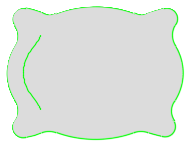
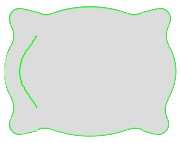
미리보기 이미지 클릭 시 _cut 버전으로 변경하도록 코드 수정

Changed region(s): [[0.0, 0.028, 1.0, 0.979], [0.0833, 0.2238, 0.2222, 0.7552]]

diff --git a/public/preview.js b/public/preview.js
@@ -390,10 +390,13 @@ document.addEventListener("DOMContentLoaded", async () => {
             previewContainer.innerHTML = "";
             previewContainer.style.position = "relative";
     
+            // _cut 버전을 지원하는 번호 배열
+            const allowedCutIndices = [1, 2, 3, 4, 5, 7, 8, 9, 11];
+
             const totalPreviews = 11;
             const randomIndex = Math.floor(Math.random() * totalPreviews) + 1;
+
             const selectedImage = `images/preview-gunff_${randomIndex}.png`;
-        
             localStorage.setItem("selectedImage", selectedImage);
         
             const img = document.createElement("img");
@@ -404,11 +407,20 @@ document.addEventListener("DOMContentLoaded", async () => {
             img.style.left = "0px";  // 초기 좌표 설정
             img.style.top = "0px";   // 초기 좌표 설정
 
+            // 클릭 시 _cut 버전으로 변경 (단, allowedCutIndices에 포함된 번호일 경우에만)
+            img.addEventListener("click", () => {
+                if (allowedCutIndices.includes(randomIndex)) {
+                    const cutImage = `images/preview-gunff_${randomIndex}_cut.png`;
+                    img.src = cutImage;
+                    localStorage.setItem("selectedImage", cutImage);
+                } else {
+                    console.warn(`No _cut version for index ${randomIndex}`);
+                }
+            });
         
             let isDragging = false; 
             let offsetX = 0; 
             let offsetY = 0;
-
             let animationFrameId = null;
 
             function startOverlapCheckLoop(img) {
@@ -435,7 +447,6 @@ document.addEventListener("DOMContentLoaded", async () => {
                 offsetY = e.clientY - rect.top;
                 img.style.cursor = "grabbing";
                 e.preventDefault();
-
                 startOverlapCheckLoop(img); // 👈 겹침 감지 루프 시작
             });
         
@@ -446,7 +457,6 @@ document.addEventListener("DOMContentLoaded", async () => {
                 let top = e.clientY - containerRect.top - offsetY;
                 img.style.left = left + "px";
                 img.style.top = top + "px";
-
                 checkOverlap(img); // 👈 실시간 감지용 강제 호출 추가!
             });
         
@@ -463,8 +473,6 @@ document.addEventListener("DOMContentLoaded", async () => {
             };
         
             previewContainer.appendChild(img);
-
-            // ✅ 변수 선언 후 호출하도록 아래로 이동
             checkOverlap(img);
         }
 

diff --git a/public/index.html b/public/index.html
@@ -202,6 +202,56 @@
             transform: scale(1);
         }
     }
+    @media (max-width: 768px) {
+  /* body 여백이나 크기 조정 (필요에 따라) */
+  body {
+    padding: 10px;
+  }
+
+  /* 컨테이너의 너비와 높이를 모바일에 맞게 조정 */
+  .container {
+    width: 100%;
+    padding: 10px;
+    margin: 0 auto;
+  }
+
+  /* 제목의 크기를 줄임 */
+  h1 {
+    font-size: 28px;
+    margin-bottom: 10px;
+  }
+
+  /* 버튼 컨테이너의 너비 조정 및 내부 여백 감소 */
+  .button_container {
+    width: 90%;  /* 전체 너비의 90%로 설정 */
+    height: auto; /* 고정 높이 대신 내용에 따라 높이 자동 조정 */
+    padding: 15px;
+    gap: 10px;
+    border: 3px solid #0066cc;
+  }
+
+  /* 버튼의 크기를 줄임 */
+  button {
+    width: 150px;
+    padding: 10px;
+    font-size: 14px;
+  }
+
+  /* 캔버스가 화면을 꽉 채우는 대신 모바일에 맞게 조정 */
+  canvas {
+    /* 모바일에서는 절대 위치가 아닌 상대적인 너비/높이 적용 */
+    width: 100%;
+    height: auto;
+  }
+
+  /* 추가적으로 필요한 경우 다른 요소들에도 미디어 쿼리로 조정 */
+  /* 예시: glow-circle의 크기 감소 */
+  .glow-circle {
+    width: 40px;
+    height: 40px;
+    filter: blur(8px);
+  }
+}
     </style>    
 </head>
 <body>

diff --git a/src/config/databaseConfig.js b/src/config/databaseConfig.js
@@ -5,13 +5,10 @@ dotenv.config(); // .env 파일에서 환경 변수 로드
 
 
 // ✅ PlanetScale URL 기반 Sequelize 인스턴스 생성
-const sequelize = new Sequelize(process.env.DB_URL, {
+const sequelize = new Sequelize(process.env.DB_NAME, process.env.DB_USER, process.env.DB_PASSWORD, {
+  host: process.env.DB_HOST,
+  port: process.env.DB_PORT || 3306,
   dialect: "mysql",
-  dialectOptions: {
-    ssl: {
-      rejectUnauthorized: true // PlanetScale은 SSL 필수
-    }
-  },
   logging: process.env.DB_LOGGING === "true" ? console.log : false,
   define: {
     freezeTableName: true,
@@ -29,12 +26,12 @@ const sequelize = new Sequelize(process.env.DB_URL, {
 async function testDBConnection() {
   try {
     await sequelize.authenticate();
-    console.log("✅ PlanetScale 연결 성공!");
+    console.log("✅ IONOS MySQL 연결 성공!");
 
     await sequelize.sync({ alter: false });
     console.log("✅ 모델 동기화 완료");
   } catch (error) {
-    console.error("❌ PlanetScale 연결 실패:", error);
+    console.error("❌ IONOS MySQL 연결 실패:", error);
   }
 }
 

diff --git a/src/app.js b/src/app.js
@@ -30,6 +30,11 @@ app.get("/favicon.ico", (req, res) => {
     res.sendFile(path.join(__dirname, "..", "public", "favicon.ico"));
 });
 
+app.get("/api/health", (req, res) => {
+    res.status(200).send("Server is alive");
+  });
+  
+  
 // ✅ 라우트 등록
 app.use("/api/auth", authRoutes);
 app.use("/api/categories", categoryRoutes);
